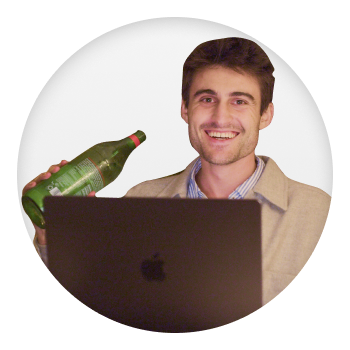
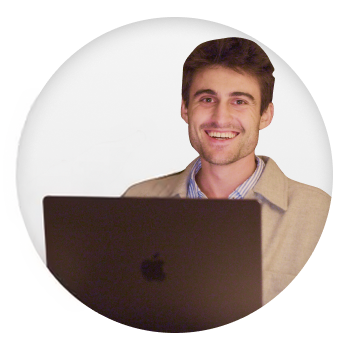
Founders section: one founder, no bottle
The heading now reads "Built by a Founder, for Founders" on /brand,
/launch and /launch-videos. Tyler's portrait drops the bottle he was
holding: the area was edited in Blueprint Studio Asset Generator and
blended back so the face and crop are the original pixels.

diff --git a/components/Brand/FoundersSection.tsx b/components/Brand/FoundersSection.tsx
@@ -36,7 +36,7 @@ export default function FoundersSection() {
                 letterSpacing: "-1px",
               }}
             >
-              Built by Founders, for Founders
+              Built by a Founder, for Founders
             </h2>
           </div>
 

diff --git a/components/Launch/FoundersSection.tsx b/components/Launch/FoundersSection.tsx
@@ -44,7 +44,7 @@ export default function FoundersSection() {
                 letterSpacing: "-1px",
               }}
             >
-              Built by Founders, for Founders
+              Built by a Founder, for Founders
             </h2>
           </div>
 

diff --git a/components/LaunchVideos/FoundersSection.tsx b/components/LaunchVideos/FoundersSection.tsx
@@ -44,7 +44,7 @@ export default function FoundersSection() {
                 letterSpacing: "-1px",
               }}
             >
-              Built by Founders, for Founders
+              Built by a Founder, for Founders
             </h2>
           </div>
 
